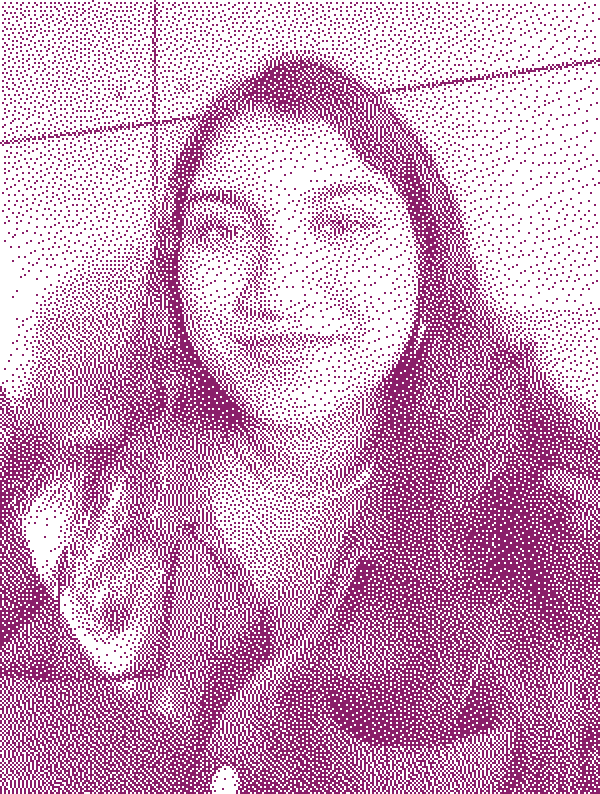
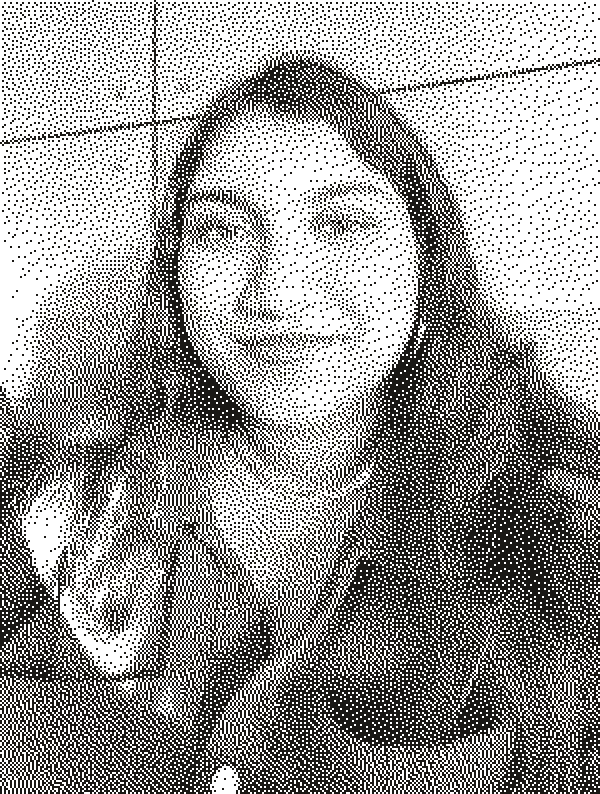
The about photograph in ink, against the left edge
Bigger, at 230px, and flush to the left edge of the page, so it and the
lily bracket the column from opposite corners instead of each sitting on
its own in the margin.

The dots are the page's ink now rather than its magenta. What ties this to
the lilies is the dither, not the colour, and leaving the photograph
neutral gives the flower somewhere to be the one coloured thing on the
page. Hovering still brings the photograph back, in colour.

diff --git a/index.html b/index.html
@@ -195,8 +195,8 @@ html.on-landing{background:#fff}
 /* One photograph, in the margin beside the top of the column, put through the
    same dither as the lilies — see about/dither.py. Going near it brings the
    picture itself back. */
-.ab-photo{position:absolute;left:calc(50% - 440px);top:132px;width:150px;
-  aspect-ratio:4/5;overflow:hidden;background:#f8ecf3}
+.ab-photo{position:absolute;left:0;top:150px;width:230px;
+  aspect-ratio:4/5;overflow:hidden;background:#f0eeeb}
 .ab-photo img{position:absolute;inset:0;display:block;width:100%;height:100%;
   object-fit:cover;transition:opacity .35s ease}
 .ab-photo .real{opacity:0}
@@ -513,7 +513,7 @@ body:has(.jc) .site-nav,body:has(.jc) .site-foot{display:none!important}
 </sc-if>
 
 <sc-if value="{{ isAbout }}" hint-placeholder-val="{{ false }}">
-<div class="jc"><div class="jc-top"><a href="#top" onClick="{{ goHome }}">&#8592; All work</a><span>{{ clock }}</span></div><div class="ab-photo"><img class="dots" src="./about/selfie-dots.png" alt="Thanvi" width="600" height="794"><img class="real" src="./about/selfie.webp" alt="" width="900" height="1191"></div><div class="ab"><div class="ab-lbl">About Thanvi Nimmala</div><p class="ab-p">I&rsquo;m a product designer based in the NYC metropolitan area. I like making design feel fun and useful, and I build the thing rather than a picture of it.</p><p class="ab-p">I graduated in 2026 with a B.A. in Information Technology &amp; Informatics, and a minor in Digital Communication, Information &amp; Media.</p><p class="ab-p">Since then I have been Product Design Lead on New Craft Society at CoCreate, where I took a capture tool from nothing to a public beta. I work end to end &mdash; research, flows, interface, design systems &mdash; and prototype in React and SwiftUI, so a decision can be tried instead of argued about.</p><p class="ab-p">I&rsquo;m currently looking for full-time design work.</p><p class="ab-p">Outside of design I am usually painting, reading, or chasing a good playlist.</p><div class="ab-links"><a href="mailto:thanvi.nimmala@gmail.com">Email &#8599;</a><a href="https://www.linkedin.com/in/thanvi-nimmala/" target="_blank" rel="noopener">LinkedIn &#8599;</a></div></div><div class="ab-flora"></div></div>
+<div class="jc"><div class="jc-top"><a href="#top" onClick="{{ goHome }}">&#8592; All work</a><span>{{ clock }}</span></div><div class="ab-photo"><img class="dots" src="./about/selfie-dots.png?v=2" alt="Thanvi" width="600" height="794"><img class="real" src="./about/selfie.webp" alt="" width="900" height="1191"></div><div class="ab"><div class="ab-lbl">About Thanvi Nimmala</div><p class="ab-p">I&rsquo;m a product designer based in the NYC metropolitan area. I like making design feel fun and useful, and I build the thing rather than a picture of it.</p><p class="ab-p">I graduated in 2026 with a B.A. in Information Technology &amp; Informatics, and a minor in Digital Communication, Information &amp; Media.</p><p class="ab-p">Since then I have been Product Design Lead on New Craft Society at CoCreate, where I took a capture tool from nothing to a public beta. I work end to end &mdash; research, flows, interface, design systems &mdash; and prototype in React and SwiftUI, so a decision can be tried instead of argued about.</p><p class="ab-p">I&rsquo;m currently looking for full-time design work.</p><p class="ab-p">Outside of design I am usually painting, reading, or chasing a good playlist.</p><div class="ab-links"><a href="mailto:thanvi.nimmala@gmail.com">Email &#8599;</a><a href="https://www.linkedin.com/in/thanvi-nimmala/" target="_blank" rel="noopener">LinkedIn &#8599;</a></div></div><div class="ab-flora"></div></div>
 </sc-if>
 
 <sc-if value="{{ isNcs }}" hint-placeholder-val="{{ false }}">

diff --git a/about/dither.py b/about/dither.py
@@ -2,14 +2,17 @@
 
 Greyscale, a little blur to take the sensor noise out, then the levels pulled
 so the picture is light enough to survive being reduced to dots — a dark frame
-dithers into a solid mass. Floyd-Steinberg after that, and the dots are tinted
-rather than black, so it sits in the same magenta as everything else.
+dithers into a solid mass. Floyd-Steinberg after that.
+
+The dots are the page's ink rather than its magenta: the dither is what ties
+this to the lilies, not the colour, and keeping the photograph neutral leaves
+the flower as the one coloured thing on the page.
 """
 import numpy as np
 from PIL import Image, ImageFilter
 
 def dither(src, out, grid_w, black=0.00, white=0.86, gamma=0.62,
-           blur=1.2, grain=0.055, scale=2, ink=(0x8a, 0x1f, 0x6a), seed=11):
+           blur=1.2, grain=0.055, scale=2, ink=(0x1a, 0x18, 0x15), seed=11):
     im = Image.open(src).convert('L')
     if blur:
         im = im.filter(ImageFilter.GaussianBlur(blur * im.width / 900))
@@ -43,7 +46,7 @@ def dither(src, out, grid_w, black=0.00, white=0.86, gamma=0.62,
     img.save(out)
     return img.size, int(dots.sum())
 
-# 300 dots across a picture shown at 150px puts a dot at half a CSS pixel, which
-# is the size they come out at in the lilies.
+# 300 dots across a picture shown at 230px puts a dot near three quarters of a
+# CSS pixel, the size they come out at in the lilies.
 if __name__ == '__main__':
     print(dither('selfie.webp', 'selfie-dots.png', 300))
